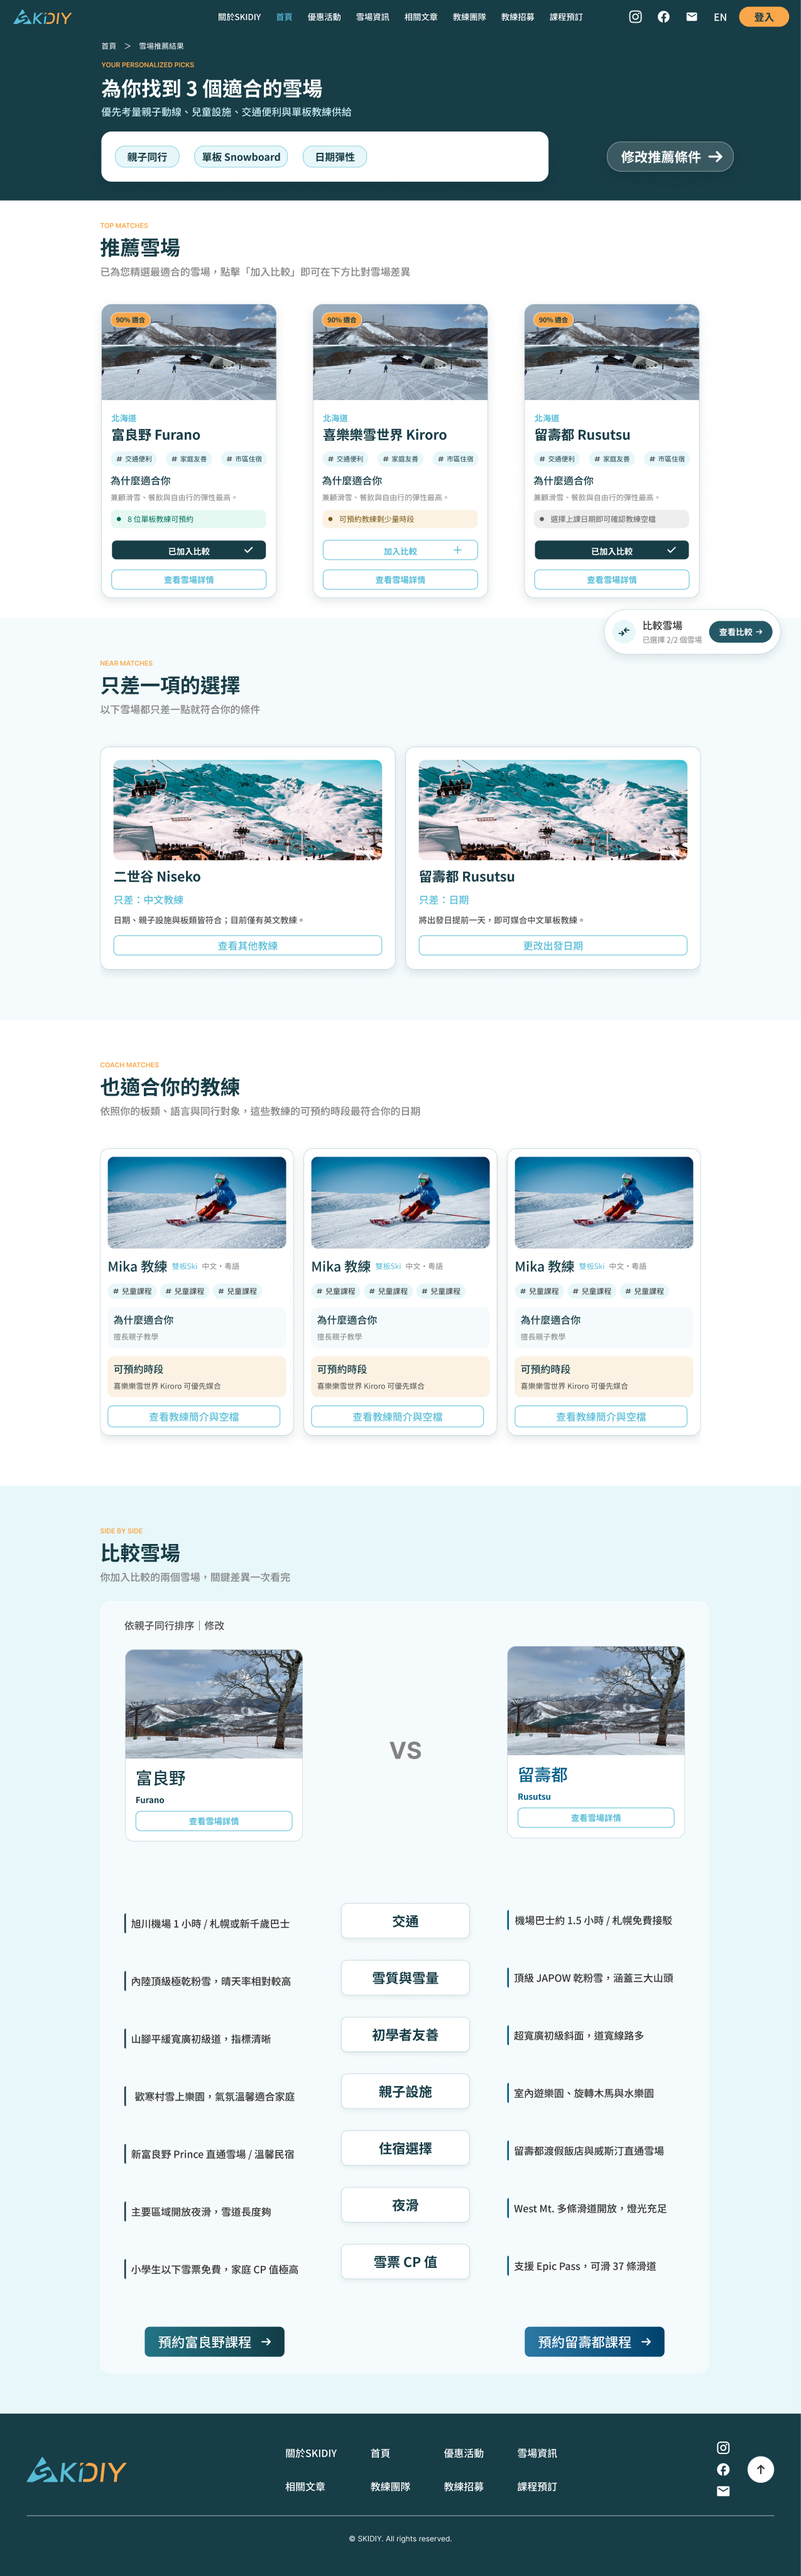
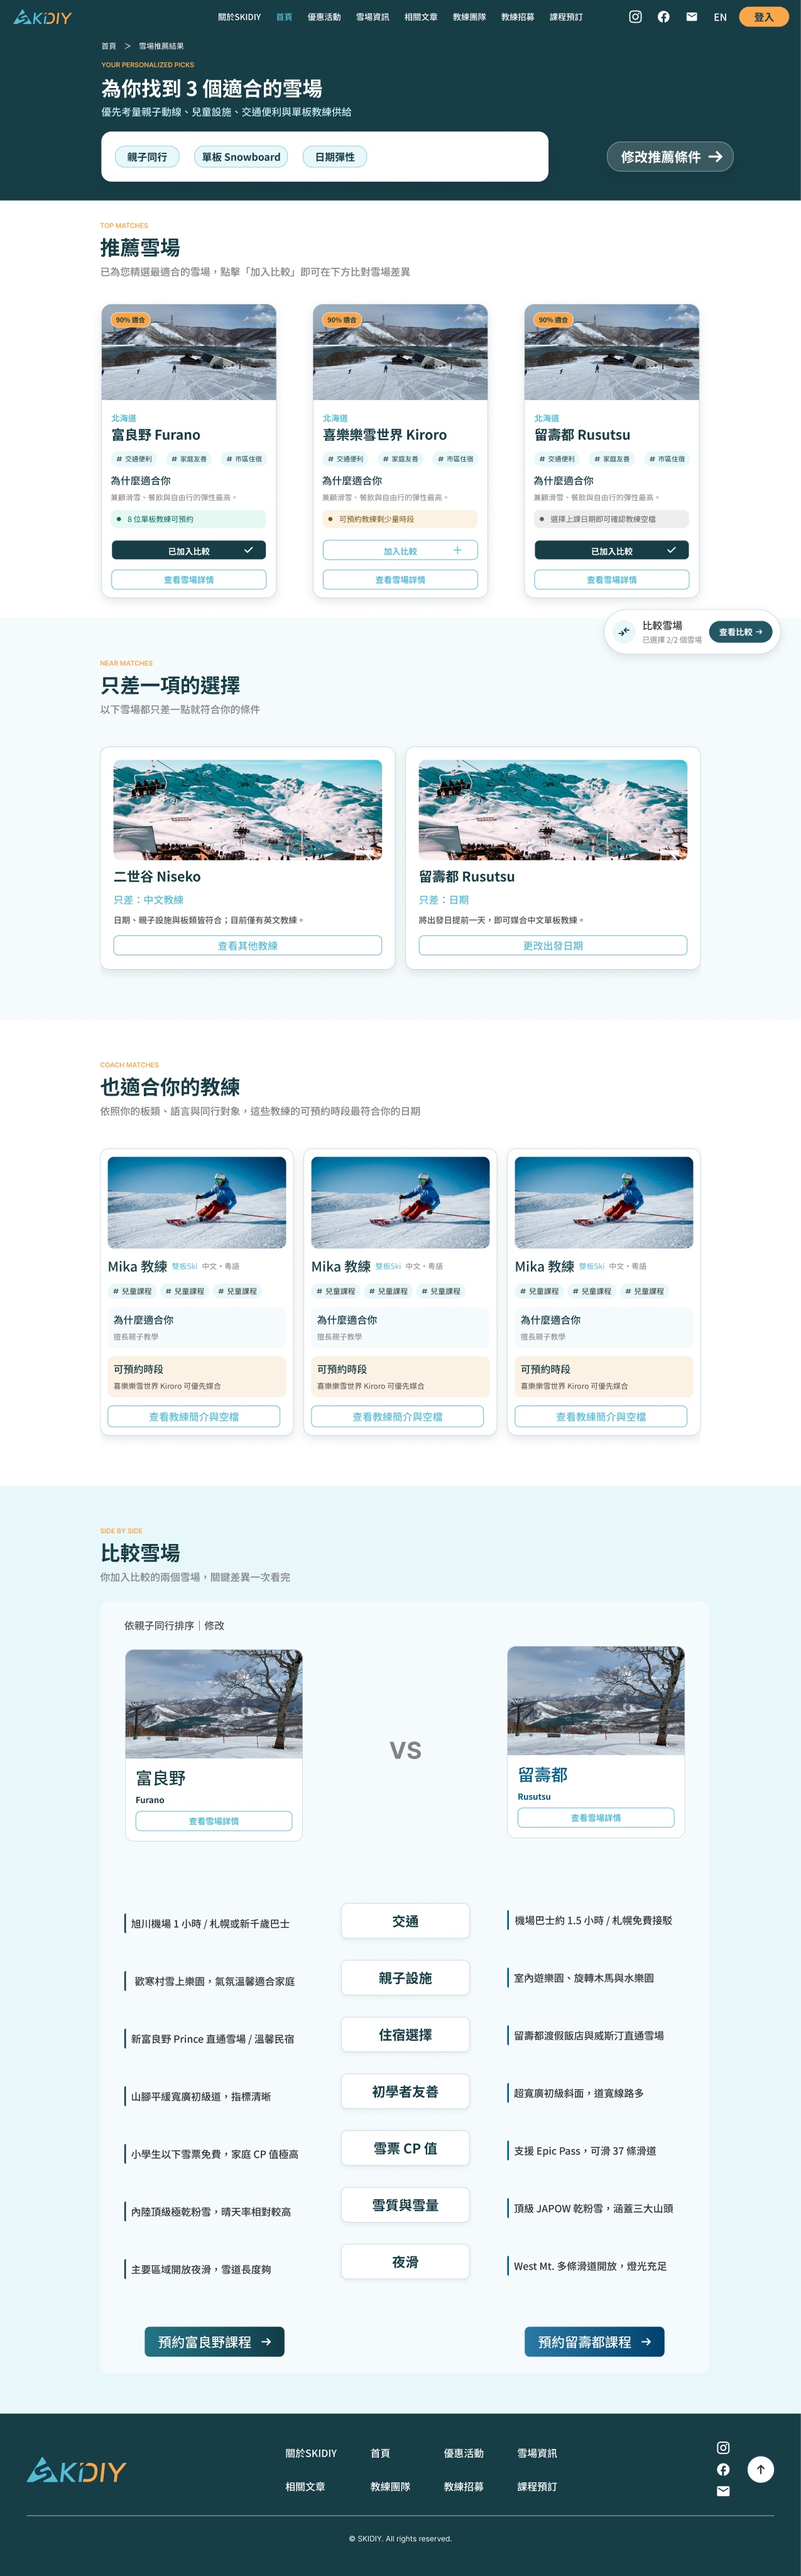
更新親子同行比較排序

Changed region(s): [[0.6424, 0.7812, 0.8259, 0.8438], [0.4588, 0.75, 0.5506, 0.9062], [0.1529, 0.7812, 0.3671, 0.8438]]

diff --git a/src/data/content.js b/src/data/content.js
@@ -792,7 +792,7 @@ export const sections = [
         eyebrow: '推薦結果',
         caption: '結果頁不只給答案，也讓使用者理解與比較',
         lede: '推薦理由、接近選項、教練資訊與雪場比較，被放在同一個決策脈絡裡。',
-        src: '/img/page-results.jpg',
+        src: '/img/page-results.jpg?v=parent-order',
         width: 1275,
         height: 4096,
         alt: '推薦結果頁完整頁面：推薦雪場卡片、只差一項的選擇、也適合你的教練、比較雪場',
@@ -819,7 +819,7 @@ export const sections = [
           {
             no: '03',
             title: '一鍵展開逐項對照',
-            desc: '點「查看比較」進入 side by side，交通、雪質與雪量、初學者友善、親子設施、住宿、夜滑、雪票 CP 值逐項並列。',
+            desc: '點「查看比較」進入 side by side；以親子同行為目的時，依序呈現交通、親子設施、住宿選擇、初學者友善、雪票 CP 值、雪質與雪量、夜滑。',
           },
         ],
         figures: [
@@ -832,10 +832,10 @@ export const sections = [
           },
           {
             label: '逐項對照表',
-            src: '/img/compare-table.jpg',
-            width: 1460,
-            height: 1850,
-            alt: '比較雪場頁面：上方顯示依親子同行排序與修改入口；富良野 VS 留壽都，依交通、雪質與雪量、初學者友善、親子設施、住宿選擇、夜滑、雪票 CP 值逐項並列，底部為兩個預約課程按鈕',
+            src: '/img/compare-table.jpg?v=parent-order',
+            width: 956,
+            height: 1166,
+            alt: '比較雪場頁面：上方顯示依親子同行排序與修改入口；富良野 VS 留壽都，依交通、親子設施、住宿選擇、初學者友善、雪票 CP 值、雪質與雪量、夜滑逐項並列，底部為兩個預約課程按鈕',
             scroll: 560,
             note: '上方明示「依親子同行排序｜修改」；捲到底可直接選擇「預約富良野課程／預約留壽都課程」。',
           },
